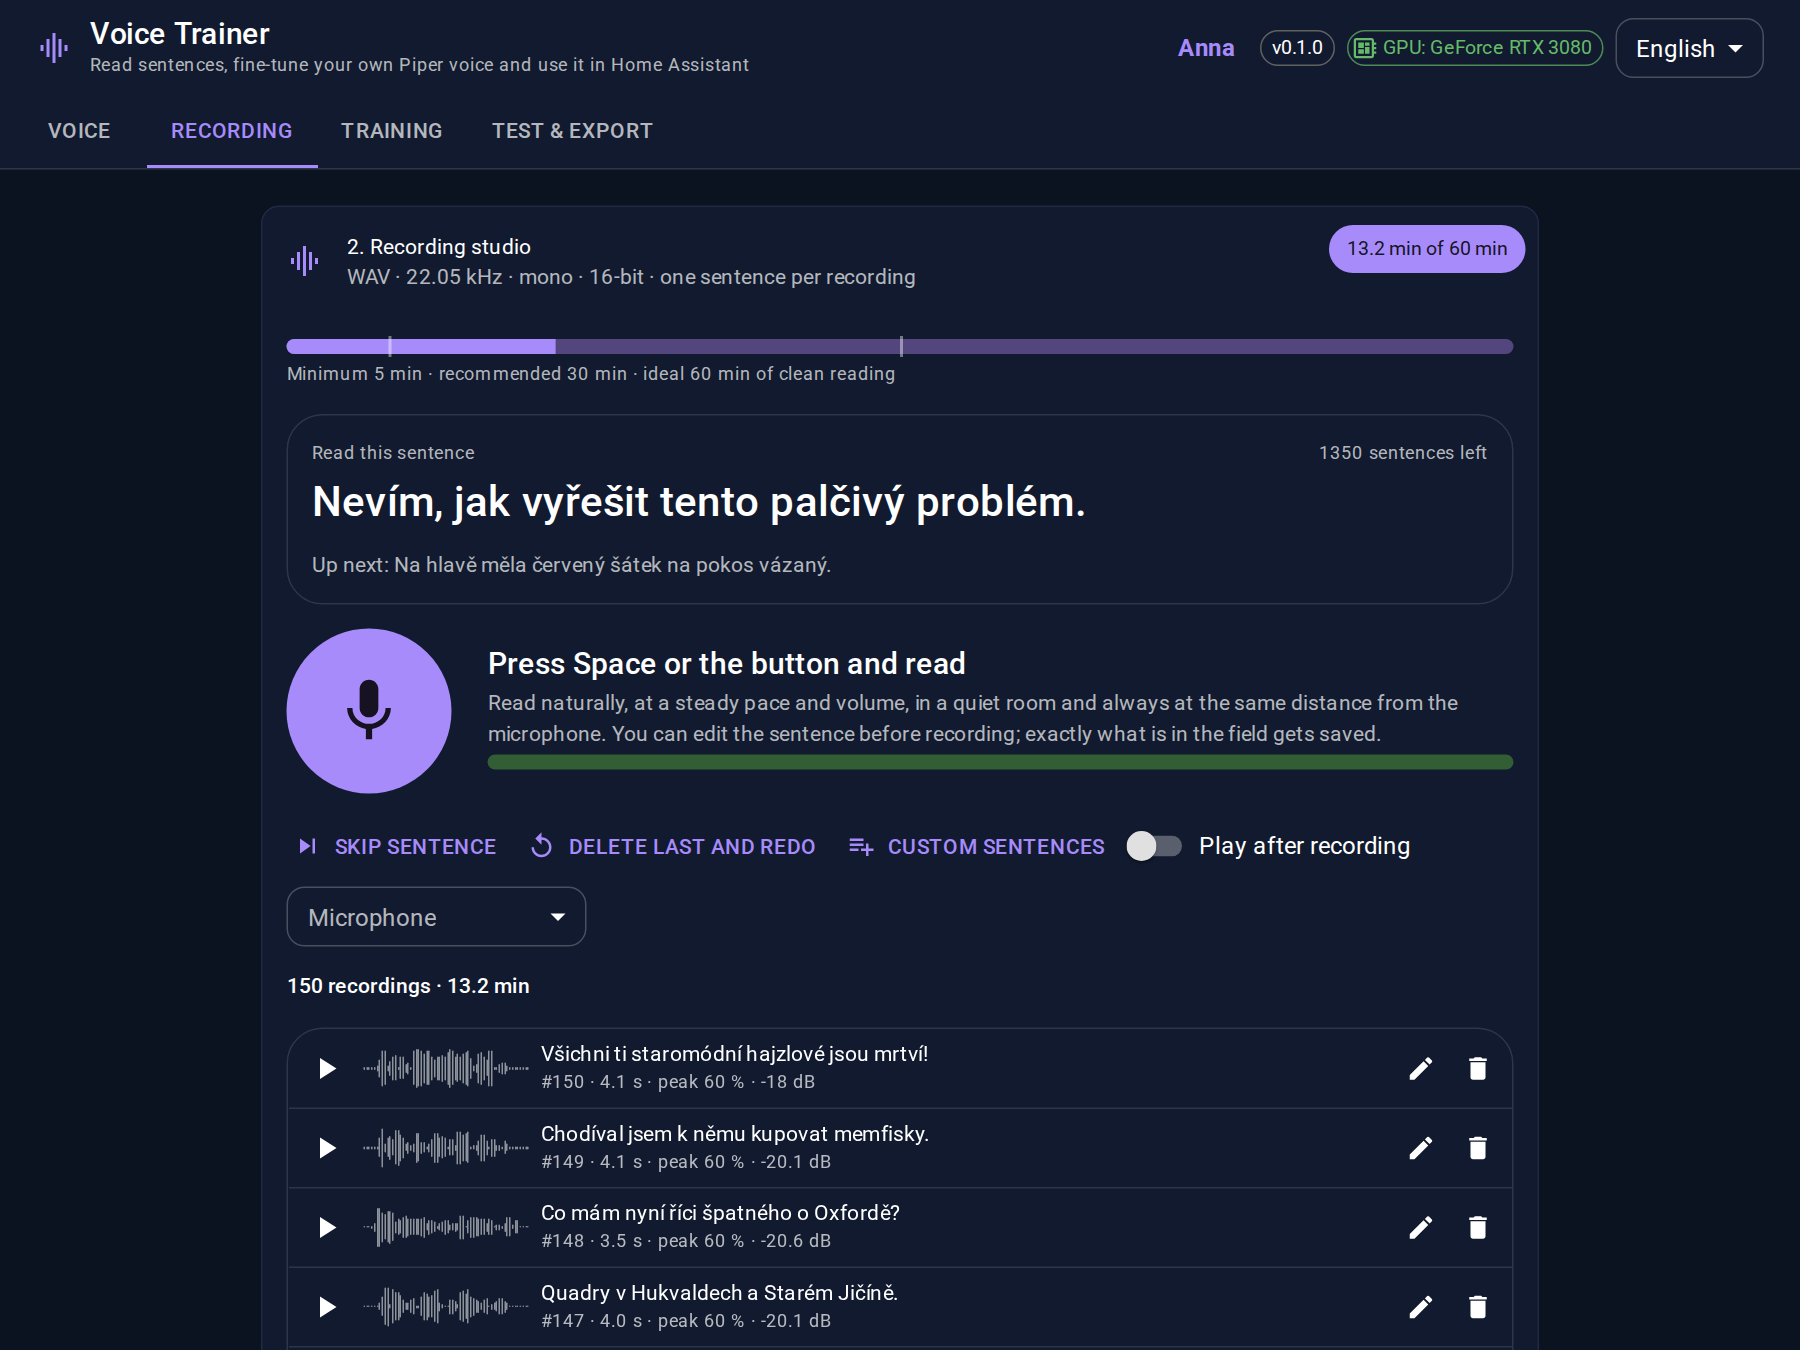
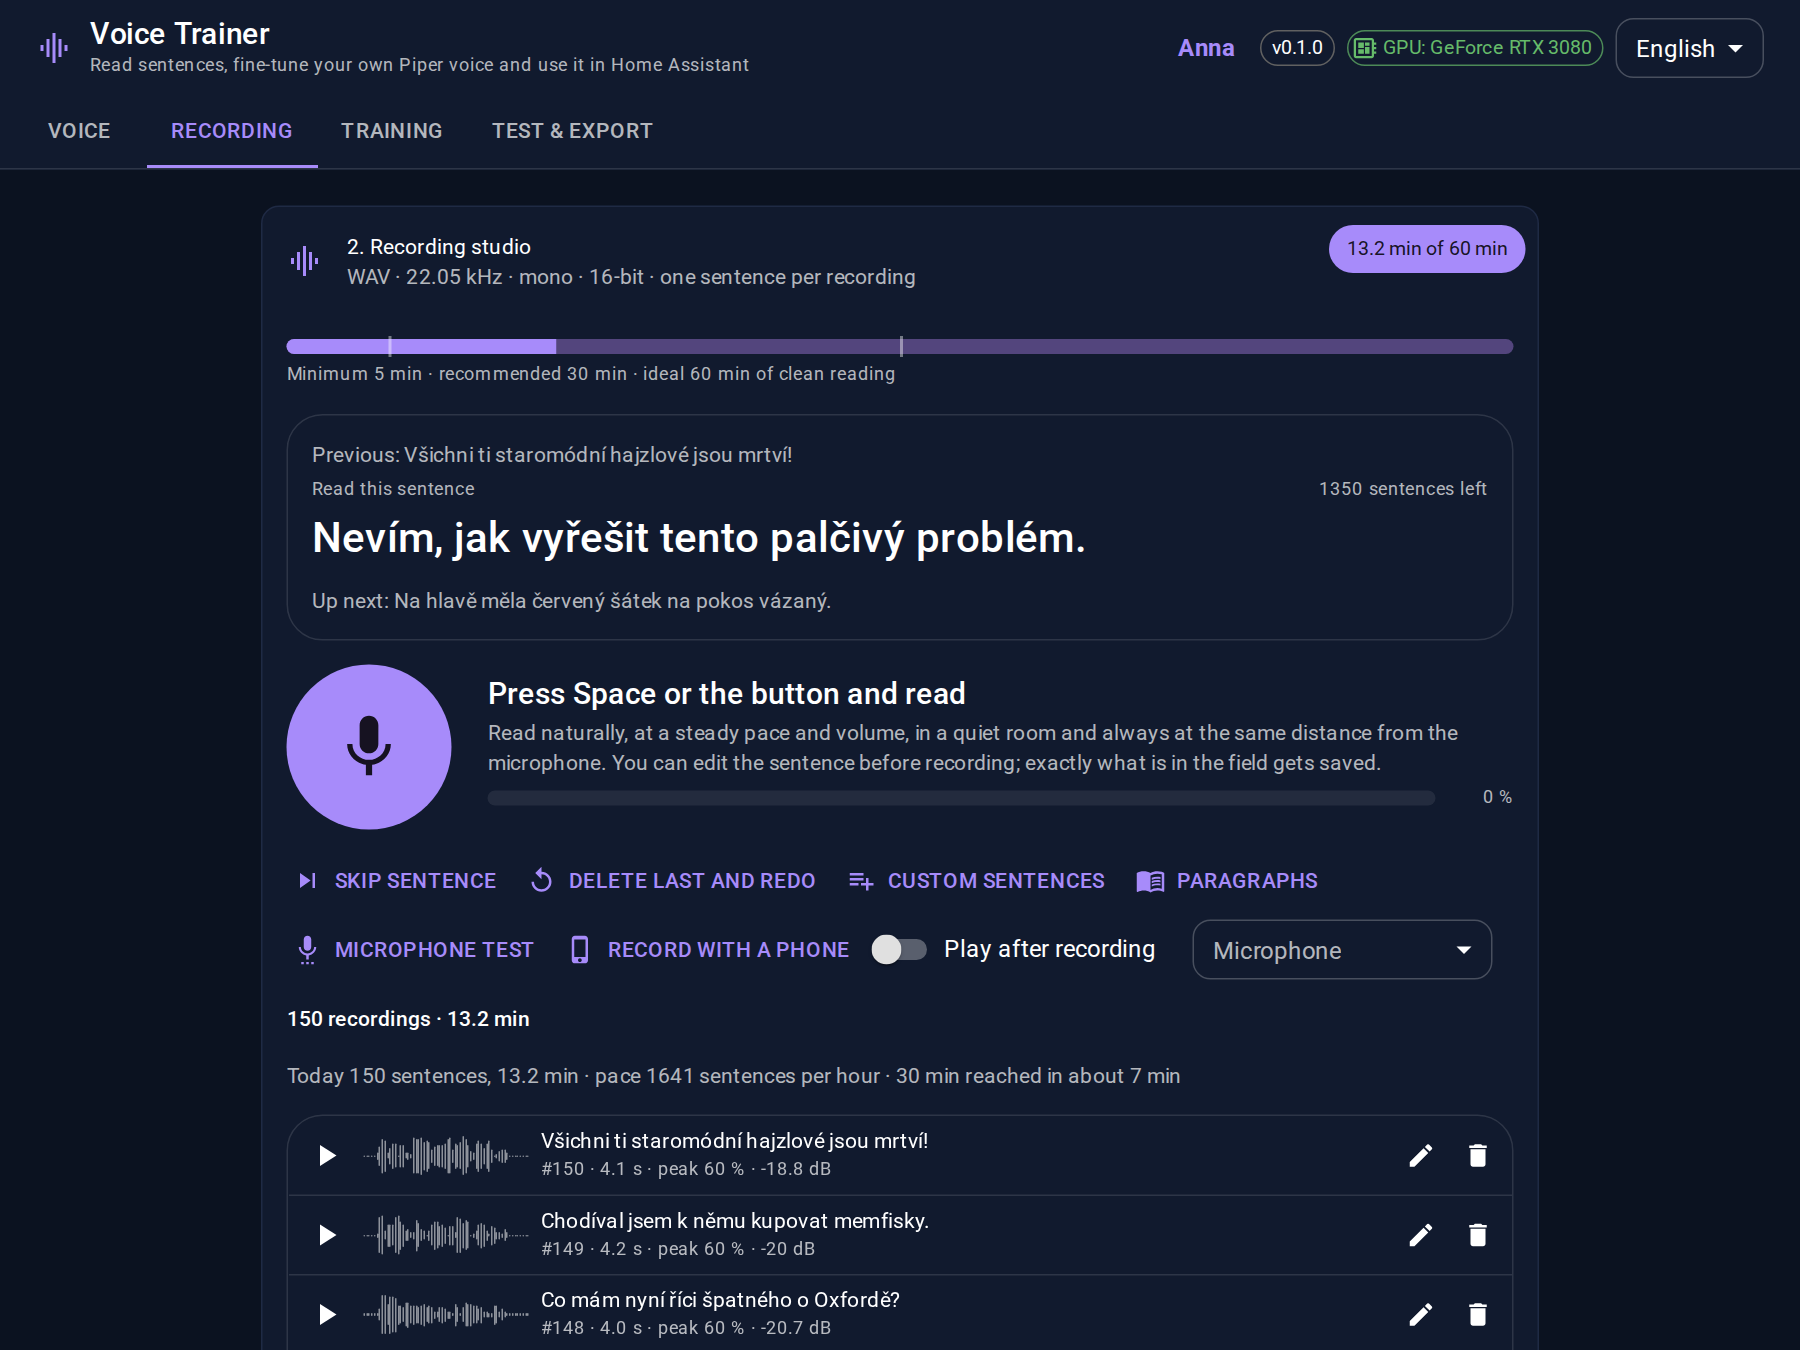
Throw-away test instance, e2e script with demo data and screenshots, fresh README screenshots, version 0.2.0
docker-compose.test.yml (ports 8101/8544, ./data-test) and scripts/e2e.sh keep end-to-end checks away from the
instance a person records in; scripts/demo_dataset.py is shipped in the image. The smoke test opens the
studio dialogs. Screenshots re-created with the current UI.

Claude-Session: https://claude.ai/code/session_016QvvWy4CUkUmov8RgW9YJS

diff --git a/tests/e2e/screenshots.js b/tests/e2e/screenshots.js
@@ -1,13 +1,11 @@
-// Re-creates the README screenshots against a running instance that has a voice with recordings and a finished run.
-// Usage (from the repo root, with the app on :8001):
-//   docker run --rm --network host -v "$PWD/tests/e2e:/e2e" -v "$PWD/docs/screenshots:/out" mcr.microsoft.com/playwright:v1.52.0-noble \
-//     sh -c "cd /tmp && npm init -y >/dev/null && npm i -s playwright@1.52.0 >/dev/null && cp /e2e/screenshots.js /tmp/ && node /tmp/screenshots.js"
+// Re-creates the README screenshots against an instance that has a voice with recordings and a finished run.
+// scripts/e2e.sh --screenshots prepares such an instance (a throw-away one, not the one you record in) and runs this.
 const { chromium } = require("playwright");
 const BASE = process.env.BASE_URL || "http://localhost:8001";
 const OUT = process.env.OUT_DIR || "/out";
 (async () => {
   const browser = await chromium.launch({ args: ["--use-fake-ui-for-media-stream", "--use-fake-device-for-media-stream"] });
-  const plan = { Voice: ["voice"], Recording: ["studio", "dataset"], Training: ["training", "jobs"], "Test & export": ["test"] };
+  const plan = { Voice: ["voice"], Recording: ["studio", "dataset", "transcribe"], Training: ["training", "jobs"], "Test & export": ["test", "lexicon"] };
   for (const scheme of ["light", "dark"]) {
     const ctx = await browser.newContext({ viewport: { width: 1200, height: 900 }, colorScheme: scheme, locale: "en-US", deviceScaleFactor: 1.5, permissions: ["microphone"] });
     const page = await ctx.newPage();
@@ -17,7 +15,7 @@ const OUT = process.env.OUT_DIR || "/out";
     if (scheme === "dark") {
       await page.getByRole("tab", { name: "Training" }).click();
       await page.waitForTimeout(2000);
-      await page.addStyleTag({ content: ".MuiAppBar-root{visibility:hidden}" });
+      await page.addStyleTag({ content: ".MuiAppBar-root{display:none}" });
       await page.locator(".MuiCard-root").nth(0).screenshot({ path: `${OUT}/training-dark.png` });
       await ctx.close();
       continue;
@@ -29,7 +27,7 @@ const OUT = process.env.OUT_DIR || "/out";
         await page.getByRole("button", { name: /^Speak$/i }).click();
         await page.waitForTimeout(6000);
       }
-      const hide = await page.addStyleTag({ content: ".MuiAppBar-root{visibility:hidden}" });
+      const hide = await page.addStyleTag({ content: ".MuiAppBar-root{display:none}" });
       const cards = page.locator(".MuiCard-root");
       for (let i = 0; i < names.length; i++) await cards.nth(i).screenshot({ path: `${OUT}/${names[i]}.png` });
       await hide.evaluate((el) => el.remove());

diff --git a/tests/e2e/smoke.js b/tests/e2e/smoke.js
@@ -25,8 +25,24 @@ const BASE = process.env.BASE_URL || "http://localhost:8001";
       if (!text.includes(title)) throw new Error(`Tab ${tab}: missing "${title}"`);
     }
   }
+  // the studio's dialogs open and close
+  await page.getByRole("tab", { name: "Recording" }).click();
+  await page.waitForTimeout(1000);
+  for (const [button, expected] of [
+    ["Paragraphs", "Connected texts to read"],
+    ["Microphone test", "Microphone and room test"],
+    ["Record with a phone", "Recording with a phone"],
+    ["Custom sentences", "Add your own sentences"],
+  ]) {
+    await page.getByRole("button", { name: button }).click();
+    await page.waitForTimeout(800);
+    const dialog = page.getByRole("dialog");
+    if (!(await dialog.innerText()).includes(expected)) throw new Error(`Dialog ${button}: missing "${expected}"`);
+    await page.keyboard.press("Escape");
+    await page.waitForTimeout(400);
+  }
   if (errors.length) throw new Error(`Page errors: ${errors.join("; ")}`);
-  console.log("OK: all tabs rendered");
+  console.log("OK: all tabs rendered, dialogs open");
   await browser.close();
 })().catch((e) => {
   console.error(e);

diff --git a/scripts/demo_dataset.py b/scripts/demo_dataset.py
@@ -1,0 +1,78 @@
+"""Fills the current voice of a running instance with synthetic recordings, for tests and screenshots.
+
+Runs inside the container (it needs Piper): the released Czech voice reads the prompt sentences and the results are
+uploaded through the public API as if a person had read them, consent included. Never point it at an instance
+that holds a real voice you care about.
+
+    docker compose -p vt-test exec app python /app/scripts/demo_dataset.py 150
+"""
+import io
+import os
+import sys
+import time
+import wave
+
+import numpy as np
+import requests
+from piper import PiperVoice
+
+API = os.environ.get("API", "http://127.0.0.1:8000")
+HF = "https://huggingface.co/rhasspy/piper-voices/resolve/main/cs/cs_CZ/jirka/medium/cs_CZ-jirka-medium.onnx"
+COUNT = int(sys.argv[1]) if len(sys.argv) > 1 else 100
+MODEL = "/tmp/demo-voice.onnx"
+
+for suffix in ([] if os.path.exists(MODEL + ".json") else ["", ".json"]):
+    r = requests.get(HF + suffix, timeout=300)
+    r.raise_for_status()
+    open(MODEL + suffix, "wb").write(r.content)
+voice = PiperVoice.load(MODEL)
+
+
+def tts(text: str) -> bytes:
+    """A sentence at 60 % level with a little silence around it, like a real take."""
+    buf = io.BytesIO()
+    with wave.open(buf, "wb") as w:
+        voice.synthesize_wav(text, w)
+    buf.seek(0)
+    with wave.open(buf) as r:
+        rate = r.getframerate()
+        audio = np.frombuffer(r.readframes(r.getnframes()), dtype=np.int16).astype(np.float32) * 0.6
+    pad = np.zeros(int(rate * 0.35), dtype=np.float32)
+    out = io.BytesIO()
+    with wave.open(out, "wb") as w:
+        w.setnchannels(1)
+        w.setsampwidth(2)
+        w.setframerate(rate)
+        w.writeframes(np.concatenate([pad, audio, pad]).astype(np.int16).tobytes())
+    return out.getvalue()
+
+
+# wait for the downloaded corpus to replace the built-in set (skipped when offline)
+for _ in range(60):
+    p = requests.get(f"{API}/api/prompts?count=1").json()
+    if p["source"] == "corpus" or (p.get("preparing") or {}).get("state") == "error" or os.environ.get("VT_OFFLINE"):
+        break
+    time.sleep(2)
+print("prompt source:", p["source"], "total:", p["total"])
+
+info = requests.get(f"{API}/api/voices").json()["voice"]
+if not info["has_consent"]:
+    res = requests.post(f"{API}/api/consent", files={"file": ("c.wav", tts(info["consent_statement"]), "audio/wav")})
+    print("consent:", res.status_code)
+
+done = 0
+while done < COUNT:
+    items = requests.get(f"{API}/api/prompts?count=20").json()["items"]
+    if not items:
+        break
+    for item in items:
+        r = requests.post(f"{API}/api/recordings", data={"text": item["text"], "prompt_id": item["id"]}, files={"file": ("a.wav", tts(item["text"]), "audio/wav")})
+        if r.status_code != 200:
+            print("upload failed:", r.status_code, r.text[:200])
+            requests.post(f"{API}/api/prompts/{item['id']}/skip")
+            continue
+        done += 1
+        if done >= COUNT:
+            break
+rec = requests.get(f"{API}/api/recordings").json()
+print("recordings:", rec["count"], "minutes:", rec["minutes"])

diff --git a/README.md b/README.md
@@ -54,6 +54,8 @@ Only train voices of people who agreed to it.
 | ![Recording studio](docs/screenshots/studio.png) | ![Training with live charts and previews](docs/screenshots/training.png) |
 | **Voice and consent** | **Test & export** |
 | ![Voice and consent](docs/screenshots/voice.png) | ![Test and export](docs/screenshots/test.png) |
+| **Dataset overview** | **Long recording import** |
+| ![Dataset overview](docs/screenshots/dataset.png) | ![Long recording import](docs/screenshots/transcribe.png) |
 
 Sentences come from the Common Voice sentence collection (CC0), filtered and ordered for phonetic variety. A short
 built-in set works offline.
@@ -127,6 +129,9 @@ backend/trainer    fit.py (Piper trainer with progress/preview callbacks), expor
                    transcribe.py (Whisper transcript + sentence cutting)
 backend/tests      pytest suite (no PyTorch needed: pip install -r backend/requirements-dev.txt)
 frontend           Vite + React + TypeScript + Material UI, Czech/English, light/dark by system setting
+scripts            e2e.sh runs the smoke test (and with --screenshots a demo dataset, a short training and the README
+                   screenshots) on a throw-away instance: ports 8101/8544, data in ./data-test, never the one you
+                   record in; demo_dataset.py fills a voice with synthetic takes (runs inside the container)
 tests/e2e          Playwright smoke test used in CI, screenshots.js re-creates the README screenshots
 data/              (runtime) base/, prompts/, voices/<id>/{recordings,jobs,consent.wav}
 ```
